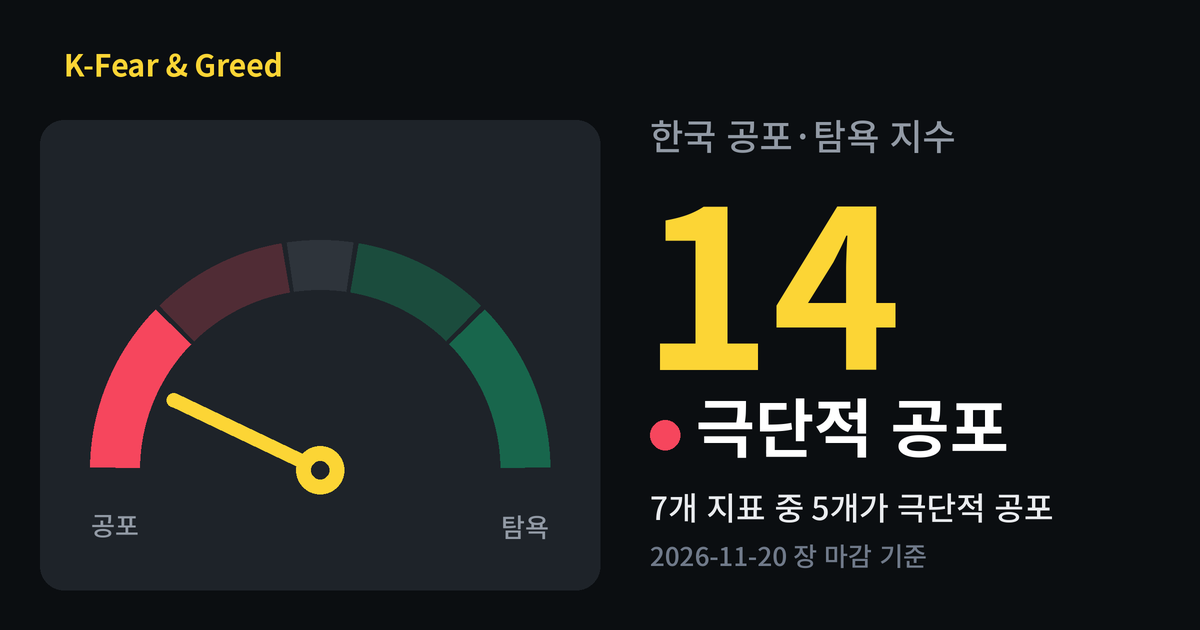
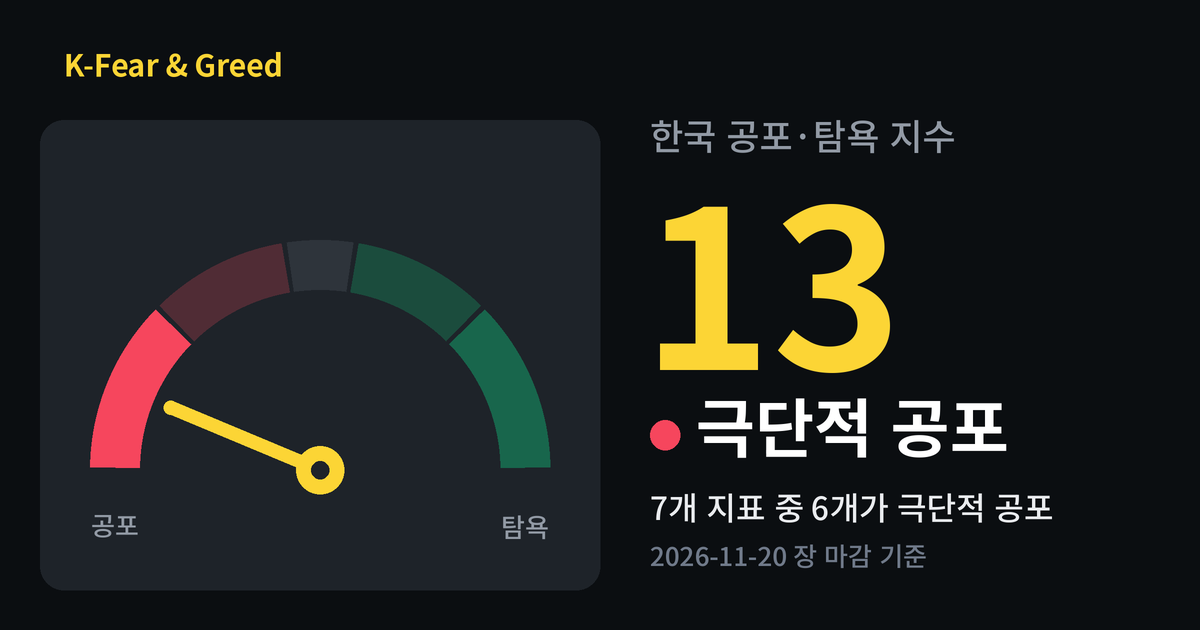
data: 2026-11-20T16:23Z

Changed region(s): [[0.6475, 0.3016, 0.7708, 0.6032], [0.1233, 0.6032, 0.2467, 0.7238], [0.6783, 0.7841, 0.7092, 0.8143]]

diff --git a/docs/index.html b/docs/index.html
@@ -4,20 +4,20 @@
 <meta charset="utf-8">
 <meta name="viewport" content="width=device-width, initial-scale=1">
 <title>한국 공포·탐욕 지수</title>
-<meta name="description" content="2026-11-20 장 마감 기준 · 7개 지표 중 5개가 극단적 공포. 시장 전반에 두려움이 크게 퍼져 있어요.">
+<meta name="description" content="2026-11-20 장 마감 기준 · 7개 지표 중 6개가 극단적 공포. 시장 전반에 두려움이 크게 퍼져 있어요.">
 <!-- 링크 미리보기: 아래 content 값은 build.py 가 매일 오늘 점수로 바꿔 쓴다 -->
 <meta property="og:type" content="website">
 <meta property="og:site_name" content="K-Fear &amp; Greed">
 <meta property="og:locale" content="ko_KR">
-<meta property="og:title" content="한국 공포·탐욕 지수 14점 · 극단적 공포">
-<meta property="og:description" content="2026-11-20 장 마감 기준 · 7개 지표 중 5개가 극단적 공포. 시장 전반에 두려움이 크게 퍼져 있어요.">
+<meta property="og:title" content="한국 공포·탐욕 지수 13점 · 극단적 공포">
+<meta property="og:description" content="2026-11-20 장 마감 기준 · 7개 지표 중 6개가 극단적 공포. 시장 전반에 두려움이 크게 퍼져 있어요.">
 <meta property="og:url" content="https://korea-feargreed.vercel.app/">
 <meta property="og:image" content="https://korea-feargreed.vercel.app/og.png?v=20261120">
 <meta property="og:image:width" content="1200">
 <meta property="og:image:height" content="630">
 <meta name="twitter:card" content="summary_large_image">
-<meta name="twitter:title" content="한국 공포·탐욕 지수 14점 · 극단적 공포">
-<meta name="twitter:description" content="2026-11-20 장 마감 기준 · 7개 지표 중 5개가 극단적 공포. 시장 전반에 두려움이 크게 퍼져 있어요.">
+<meta name="twitter:title" content="한국 공포·탐욕 지수 13점 · 극단적 공포">
+<meta name="twitter:description" content="2026-11-20 장 마감 기준 · 7개 지표 중 6개가 극단적 공포. 시장 전반에 두려움이 크게 퍼져 있어요.">
 <meta name="twitter:image" content="https://korea-feargreed.vercel.app/og.png?v=20261120">
 <link rel="icon" href="favicon.svg" type="image/svg+xml">
 <link rel="icon" href="favicon-32.png" type="image/png" sizes="32x32">
